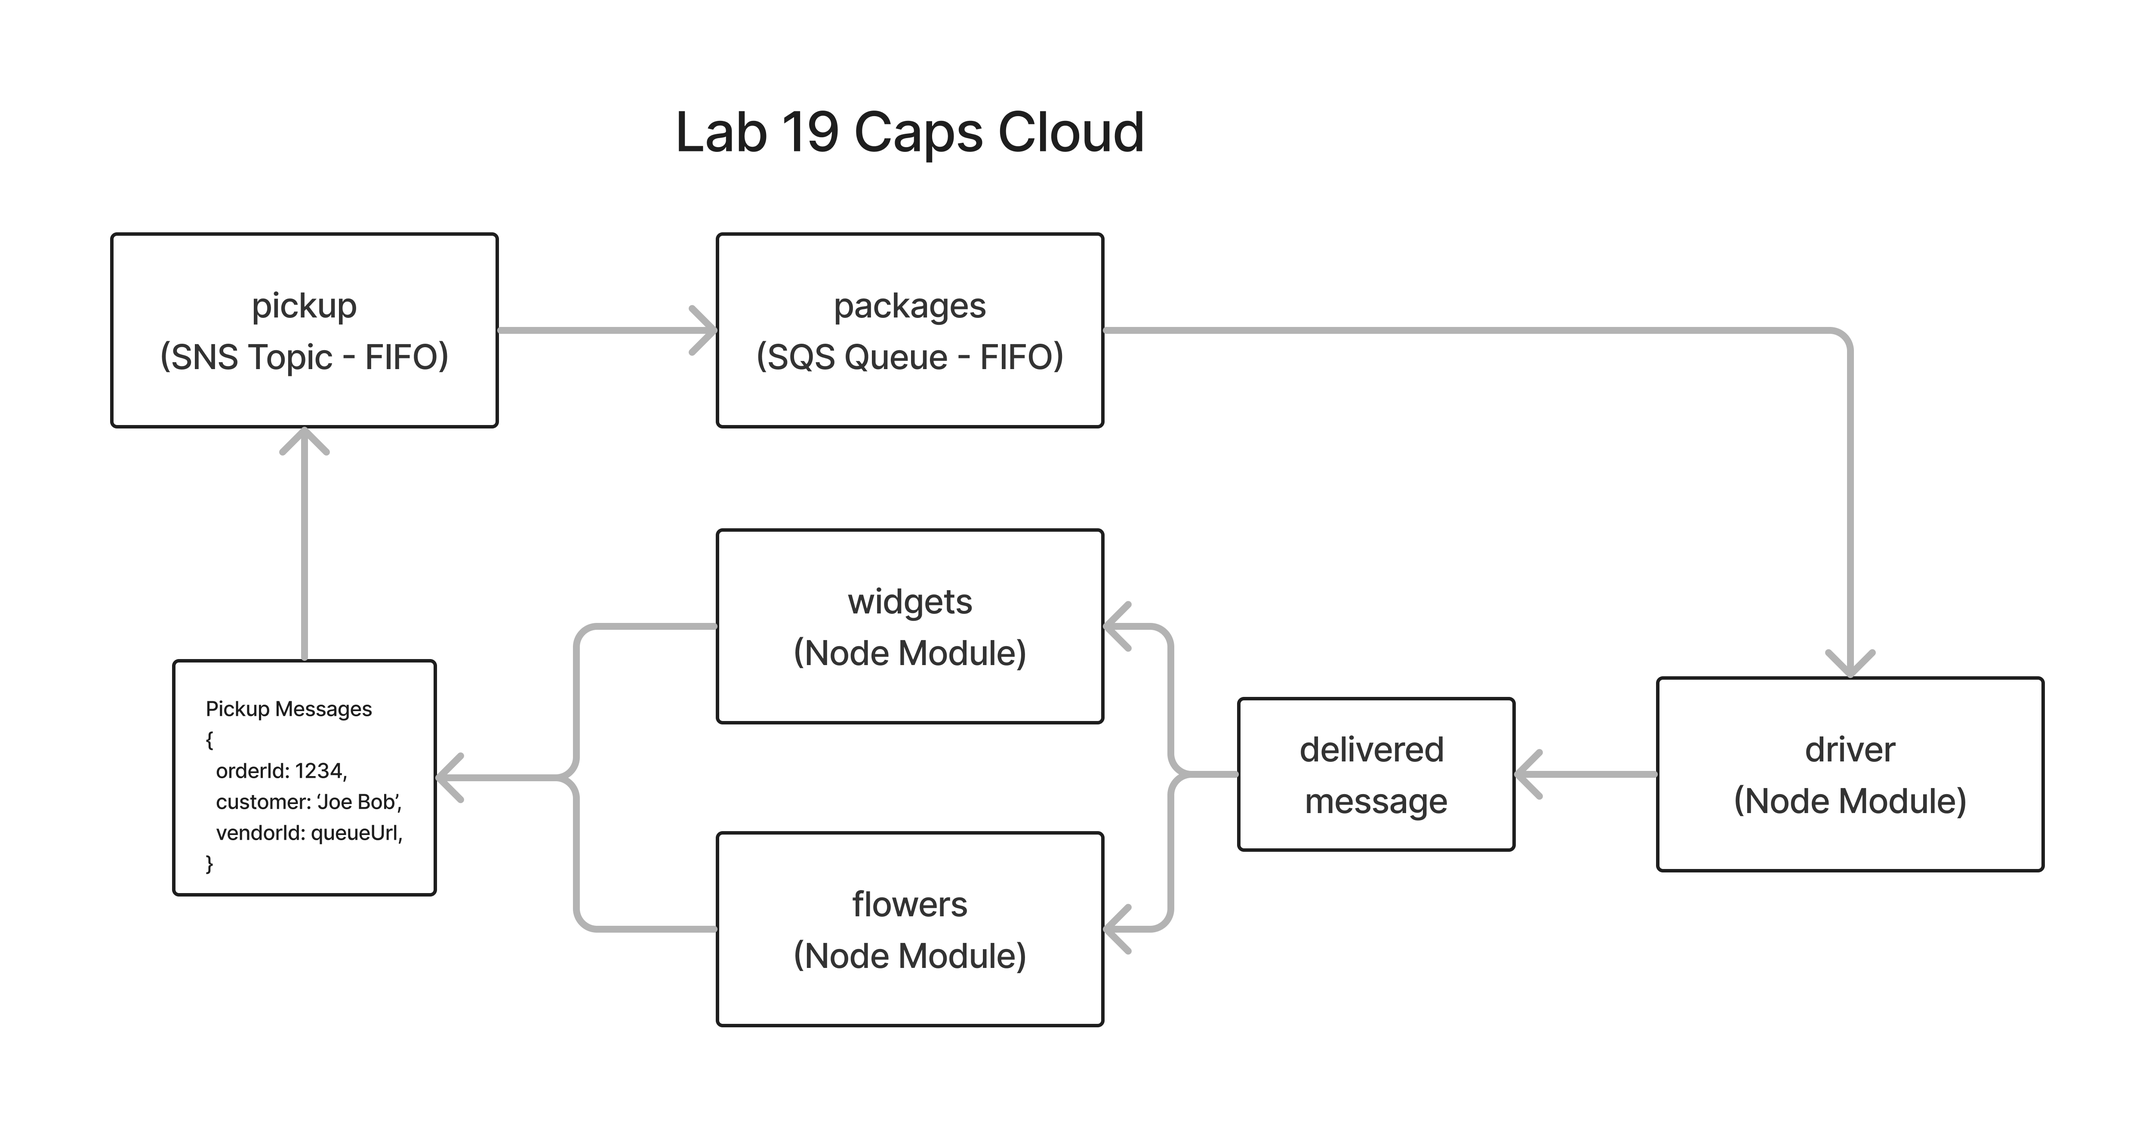
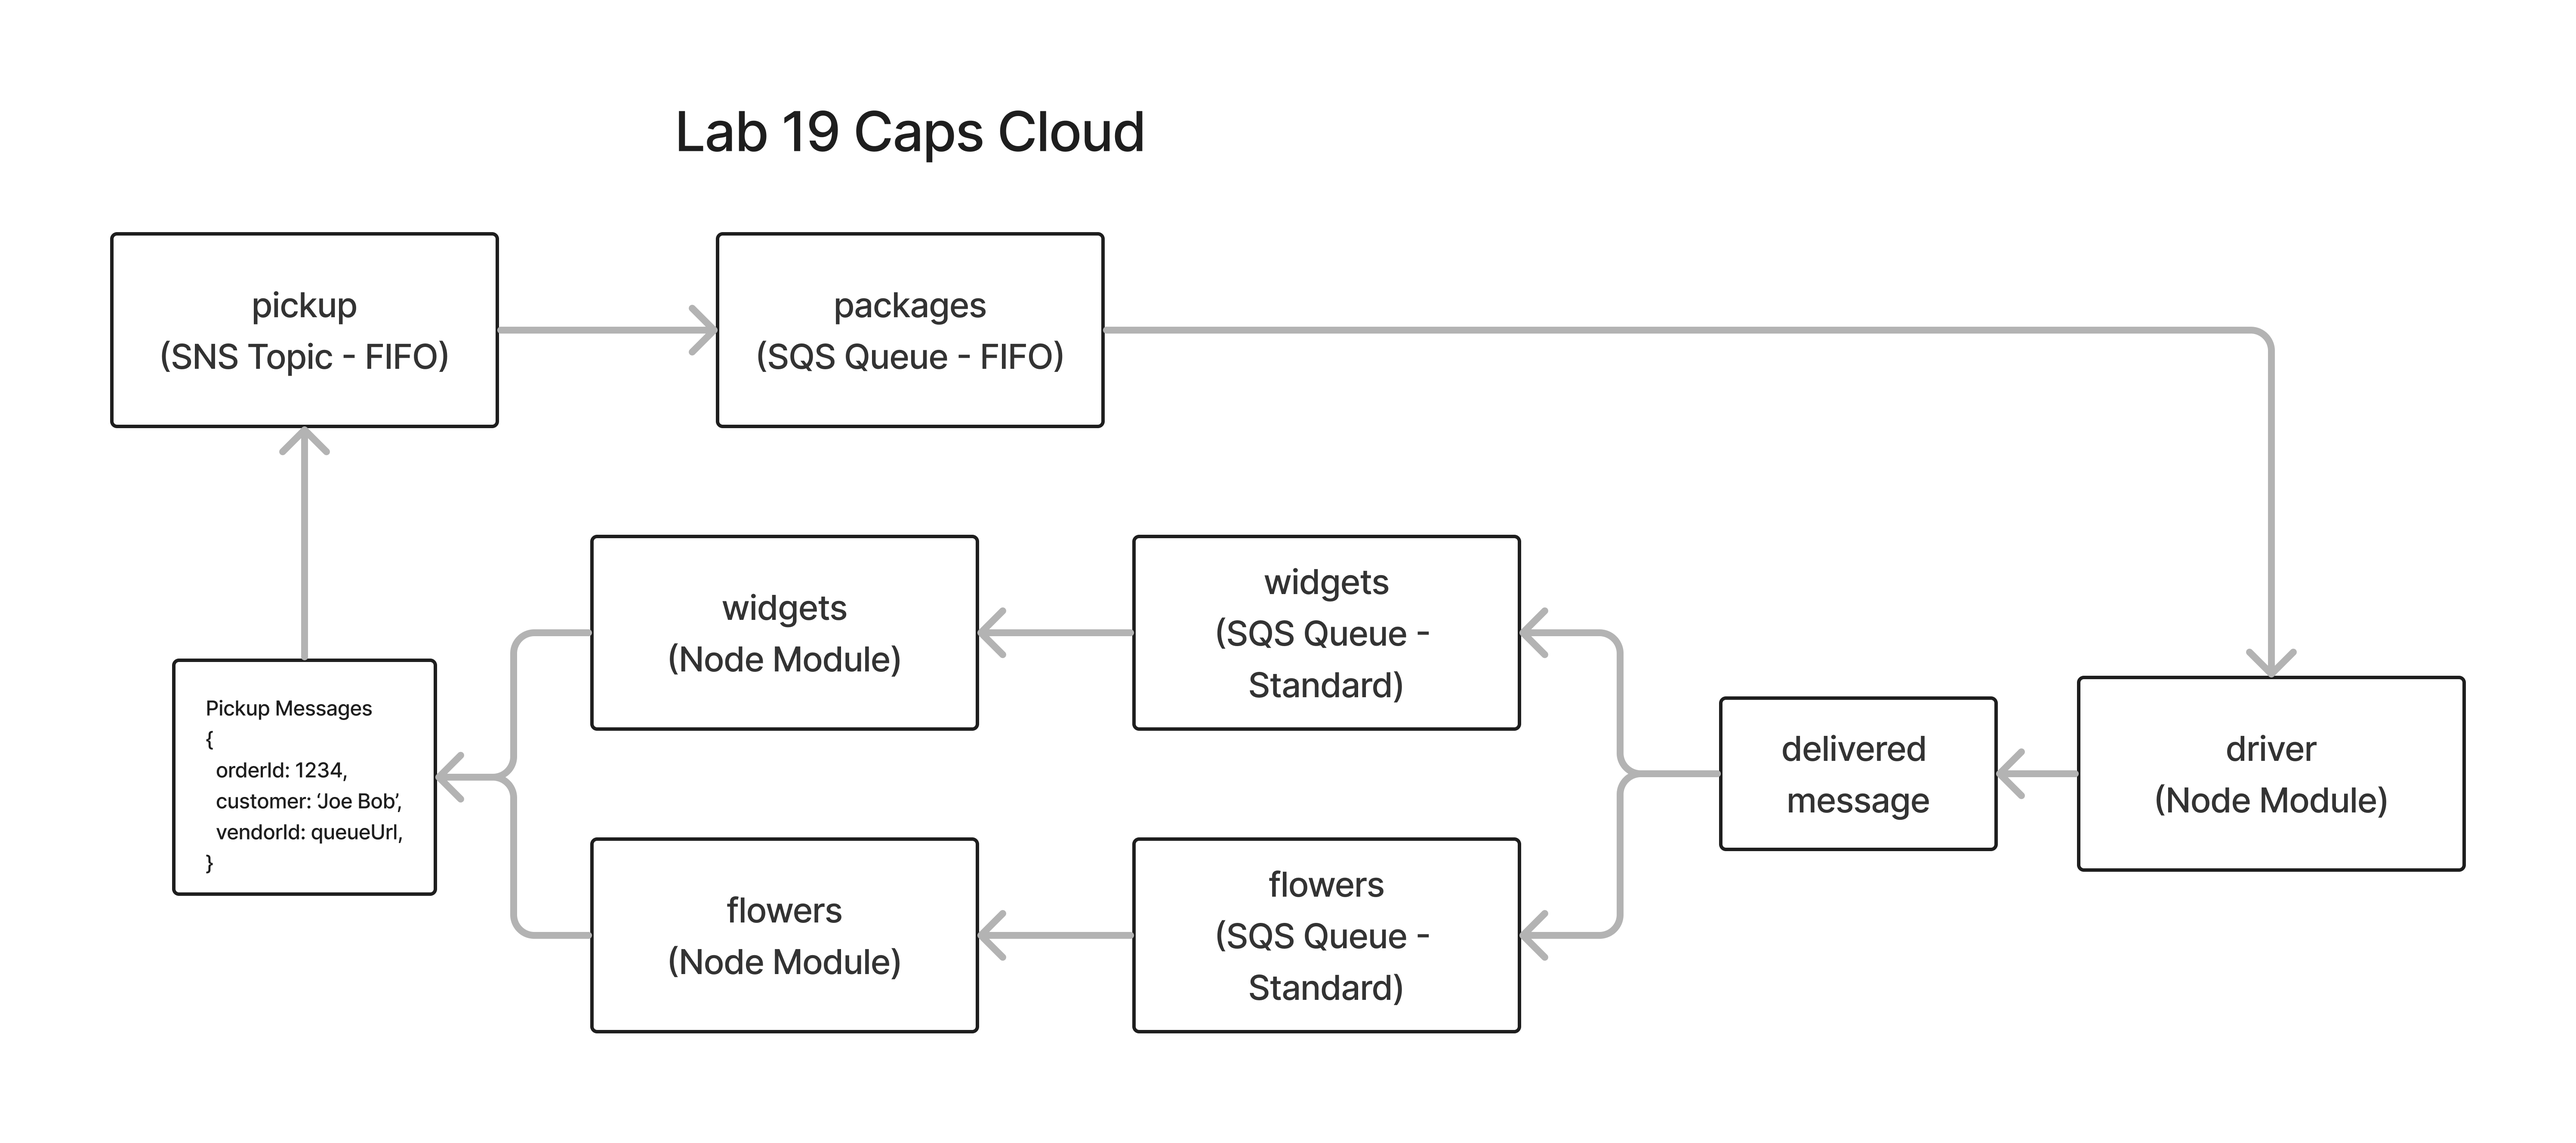
Added intervals, timeouts, completed README and screenshot of console

diff --git a/flowers.js b/flowers.js
@@ -10,29 +10,28 @@ const sns = new AWS.SNS();
 const topic = 'arn:aws:sns:us-east-2:623507191376:pickup.fifo';
 const queueUrl = 'https://sqs.us-east-2.amazonaws.com/623507191376/flowers';
 
-const orderDetails = {
-  orderId: chance.guid(),
-  customer: chance.name(),
-  vendorId: queueUrl,
-};
+setInterval(() => {
+  const orderDetails = {
+    orderId: chance.guid(),
+    customer: chance.name(),
+    vendorId: queueUrl,
+  };
 
-const payload = {
-  Message: JSON.stringify(orderDetails),
-  TopicArn: topic,
-  MessageGroupId: 'flowers',
-  MessageDeduplicationId: chance.guid(),
-};
+  const payload = {
+    Message: JSON.stringify(orderDetails),
+    TopicArn: topic,
+    MessageGroupId: 'flowers',
+    MessageDeduplicationId: chance.guid(),
+  };
 
-// setInterval(() => {
-
-// });
-sns.publish(payload).promise()
-  .then(data => console.log('DATA:', data))
-  .catch(err => console.log('ERROR IN FLOWERS', err));
+  sns.publish(payload).promise()
+    .then(data => console.log('DATA:', data))
+    .catch(err => console.log('ERROR IN FLOWERS', err));
+}, 5000);
 
 const consumer = Consumer.create({
   queueUrl: queueUrl,
-  handleMessage: async (data) => {
+  handleMessage: (data) => {
     console.log('DATA:', data);
     const parsedMessageBody = JSON.parse(data.Body);
     console.log('PARSED BODY:', parsedMessageBody);

diff --git a/widgets.js b/widgets.js
@@ -10,22 +10,24 @@ const sns = new AWS.SNS();
 const topic = 'arn:aws:sns:us-east-2:623507191376:pickup.fifo';
 const queueUrl = 'https://sqs.us-east-2.amazonaws.com/623507191376/widgets';
 
-const orderDetails = {
-  orderId: chance.guid(),
-  customer: chance.name(),
-  vendorId: queueUrl,
-};
+setInterval(() => {
+  const orderDetails = {
+    orderId: chance.guid(),
+    customer: chance.name(),
+    vendorId: queueUrl,
+  };
 
-const payload = {
-  Message: JSON.stringify(orderDetails),
-  TopicArn: topic,
-  MessageGroupId: 'widgets',
-  MessageDeduplicationId: chance.guid(),
-};
+  const payload = {
+    Message: JSON.stringify(orderDetails),
+    TopicArn: topic,
+    MessageGroupId: 'widgets',
+    MessageDeduplicationId: chance.guid(),
+  };
 
-sns.publish(payload).promise()
-  .then(data => console.log('DATA:', data))
-  .catch(err => console.log('ERROR IN WIDGETS', err));
+  sns.publish(payload).promise()
+    .then(data => console.log('DATA:', data))
+    .catch(err => console.log('ERROR IN WIDGETS', err));
+}, 5000);
 
 const consumer = Consumer.create({
   queueUrl: queueUrl,
@@ -36,4 +38,4 @@ const consumer = Consumer.create({
   },
 });
 
-// consumer.start();
+consumer.start();

diff --git a/driver.js b/driver.js
@@ -24,9 +24,11 @@ const consumer = Consumer.create({
       body: messageString,
     };
 
-    const response = await producer.send(payload);
-    console.log('RESPONSE:', response);
+    setTimeout(async () => {
+      const response = await producer.send(payload);
+      console.log('RESPONSE:', response);
+    }, Math.floor(Math.random() * 5000));
   },
 });
 
-// consumer.start();
+consumer.start();

diff --git a/README.md b/README.md
@@ -14,19 +14,31 @@ This lab demonstrates how to create and deploy an event-driven application using
 - `node widgets.js` to send a widgets order to the SNS pickup notification, and poll its queue for delivery confirmations.
 - `node driver.js` to poll the packages queue and send delivery confirmations to the respective queue for the vendor of the order.
 
+#### Data Flow
+
+1) Vendors modules (widgets.js and flowers.js) publish a new order to the pickup.fifo SNS Topic.
+2) SNS publishes the new order to the packages.fifo SQS queue, which is subscribed to it.
+3) Drivers modules (driver.js) consumes the packages.fifo SQS queue.
+4) Drivers modules (driver.js) produces a delivery message to the respective vendor SQS queue for the order.
+5) Vendors modules (widgets.js and flowers.js) consume their respective delivery SQS queues to receive the delivery confirmation.
+
+#### Console
+
+![Caps Cloud Console](caps-cloud-console.png)
+
 #### Processes
 
-1) Create a pickup.fifo SNS
-2) Create a packages.fifo SQS
+1) Create a pickup.fifo SNS topic
+2) Create a packages.fifo SQS queue
 3) Create a SQS standard queue for each vendor for delivery notifications
-4) Subscribe the packages queue to the pickup event notification
-5) Create vendor modules (such as flowers and widgets) that send messages for orders to the pickup SNS
+4) Subscribe the packages queue to the pickup topic notification
+5) Create vendor modules (such as flowers and widgets) that publish messages for orders to the pickup SNS
 6) Create a driver module that subscribes to/consumes the packages queue.
 7) Send delivery confirmation messages from the driver module to the SQS standard queue for the respective vendor of each order.
 
 #### Whiteboard
 
-[CAPS Cloud UML Diagram](caps-cloud.png)
+![CAPS Cloud UML Diagram](caps-cloud.png)
 
 Diagram created with [Figma](https://www.figma.com/)
 
